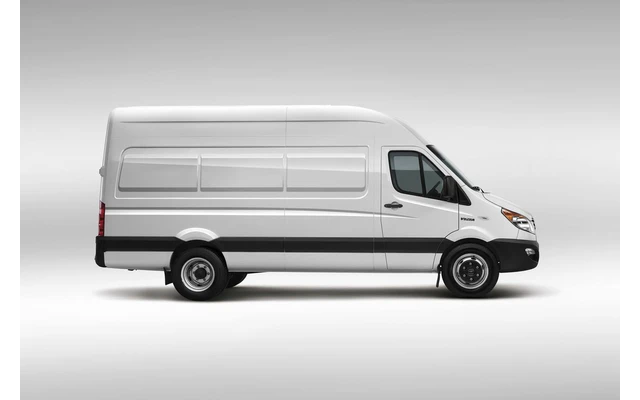
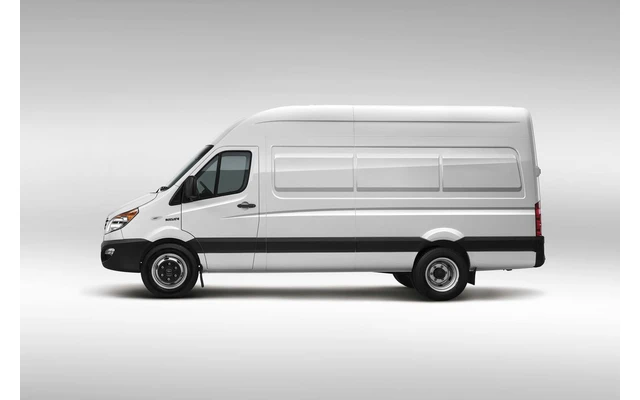
Replace SUNRAY Van image + add console debug logging to carousel dots

Changed region(s): [[0.125, 0.24, 0.875, 0.78], [0.9375, 0.6, 0.9688, 0.66], [0.0312, 0.6, 0.0625, 0.66]]

diff --git a/js/main.js b/js/main.js
@@ -150,24 +150,37 @@ function initModelCarousel() {
         nextBtn.disabled = current >= cards.length - 1;
     }
 
+    var _rebuildLock = false;
+    var _rebuildCallCount = 0;
     function rebuildCarouselDots() {
         if (!isCarouselActive()) return;
-        // Remove all existing dots completely
+        if (_rebuildLock) { console.warn('[DOTS] REBUILD BLOCKED (concurrent)'); return; }
+        _rebuildLock = true;
+        _rebuildCallCount++;
+        console.log('[DOTS] rebuildCarouselDots #' + _rebuildCallCount);
+        
+        // Completely nuke the container
+        dotsContainer.innerHTML = '';
         dotsContainer.textContent = '';
-        // Also remove any leftover children via DOM
         var child;
         while ((child = dotsContainer.firstChild)) {
-            dotsContainer.removeChild(child);
+            child.remove();
         }
+        
         const cards = getVisibleCards();
+        console.log('[DOTS] visible cards: ' + cards.length + ' | dots in container after clear: ' + dotsContainer.children.length);
+        
         cards.forEach(function(_, i) {
             var dot = document.createElement('button');
             dot.className = 'carousel-dot';
             dot.setAttribute('aria-label', 'Модель ' + (i + 1));
-            dot.addEventListener('click', (function(idx) { return function() { scrollToCard(idx); }; })(i));
+            dot.addEventListener('click', (function(idx) { return function(e) { e.preventDefault(); scrollToCard(idx); }; })(i));
             dotsContainer.appendChild(dot);
         });
+        
+        console.log('[DOTS] built ' + dotsContainer.children.length + ' dots (cards=' + cards.length + ')');
         updateDots();
+        _rebuildLock = false;
     }
 
     // Expose to global scope so model tabs can call it
@@ -187,7 +200,7 @@ function initModelCarousel() {
     // Scroll listener to update dots
     grid.addEventListener('scroll', updateDots, { passive: true });
 
-    // Only show/hide dots on resize — don't rebuild (count doesn't change)
+    // Only show/hide dots on resize — don't rebuild
     window.addEventListener('resize', function() {
         if (isCarouselActive()) {
             dotsContainer.style.display = 'flex';
@@ -198,6 +211,7 @@ function initModelCarousel() {
 
     // Initial build if mobile
     if (isCarouselActive()) {
+        console.log('[DOTS] initial build on page load');
         rebuildCarouselDots();
     }
 }
